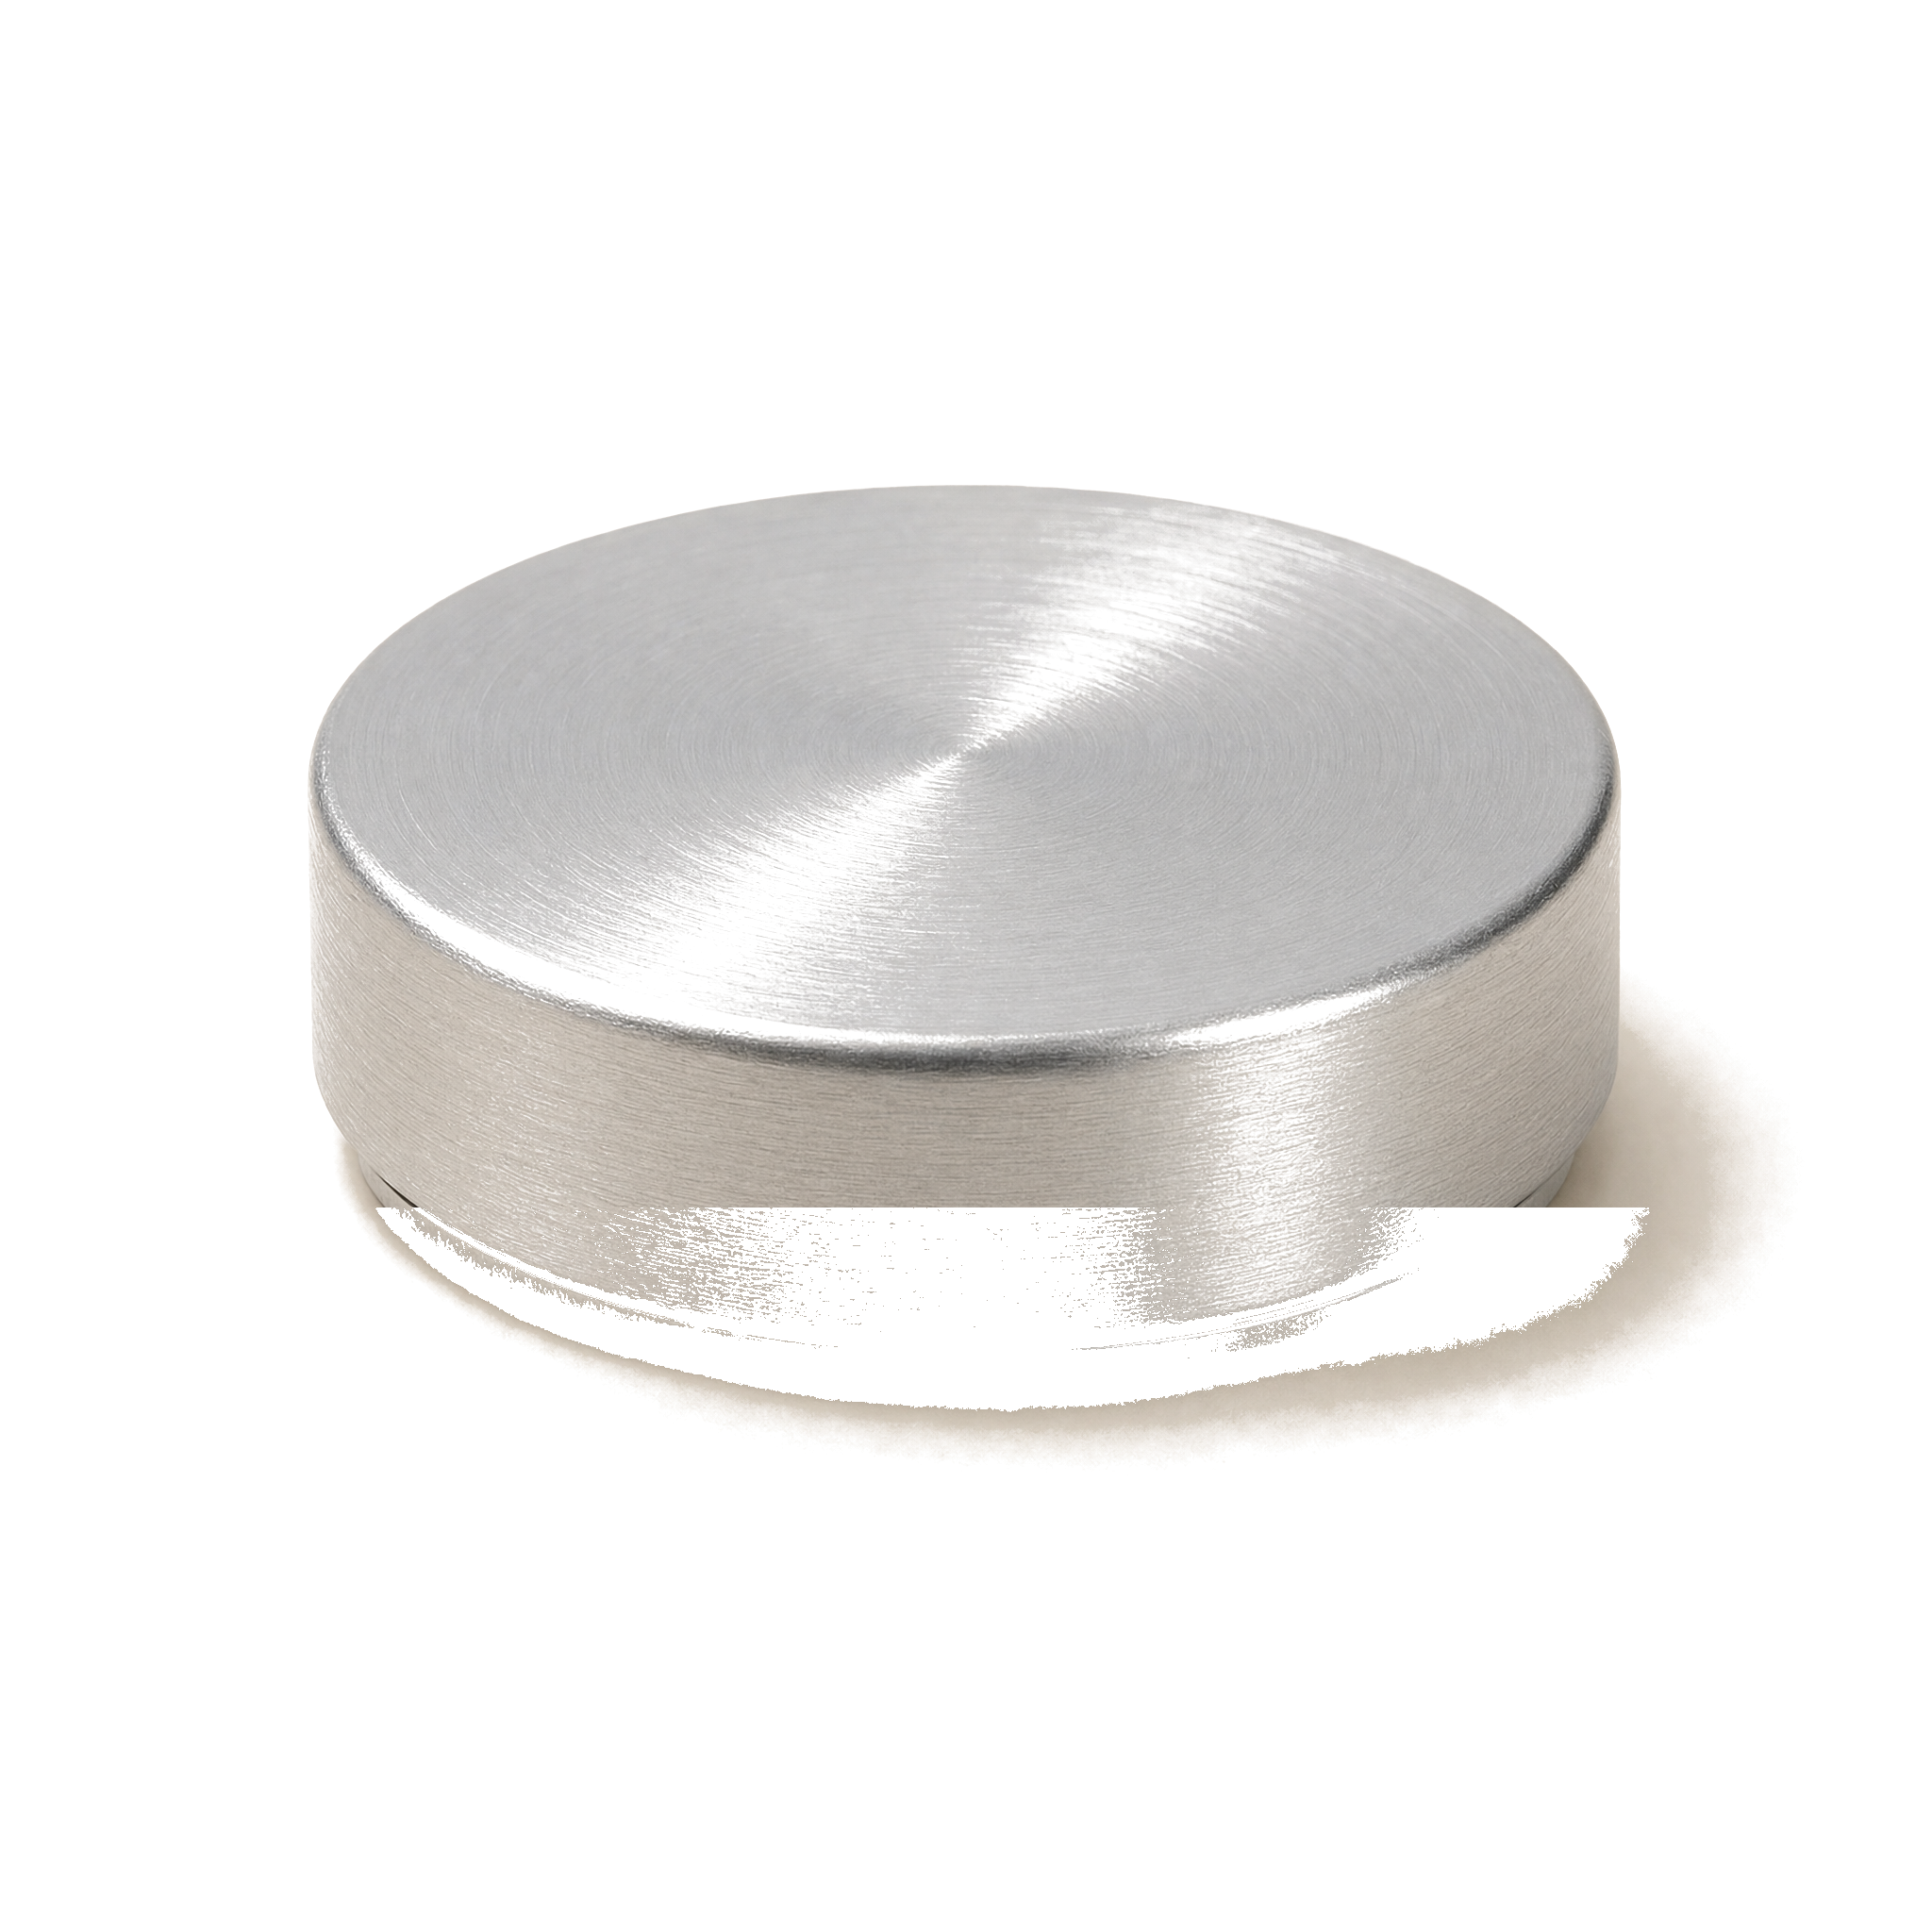
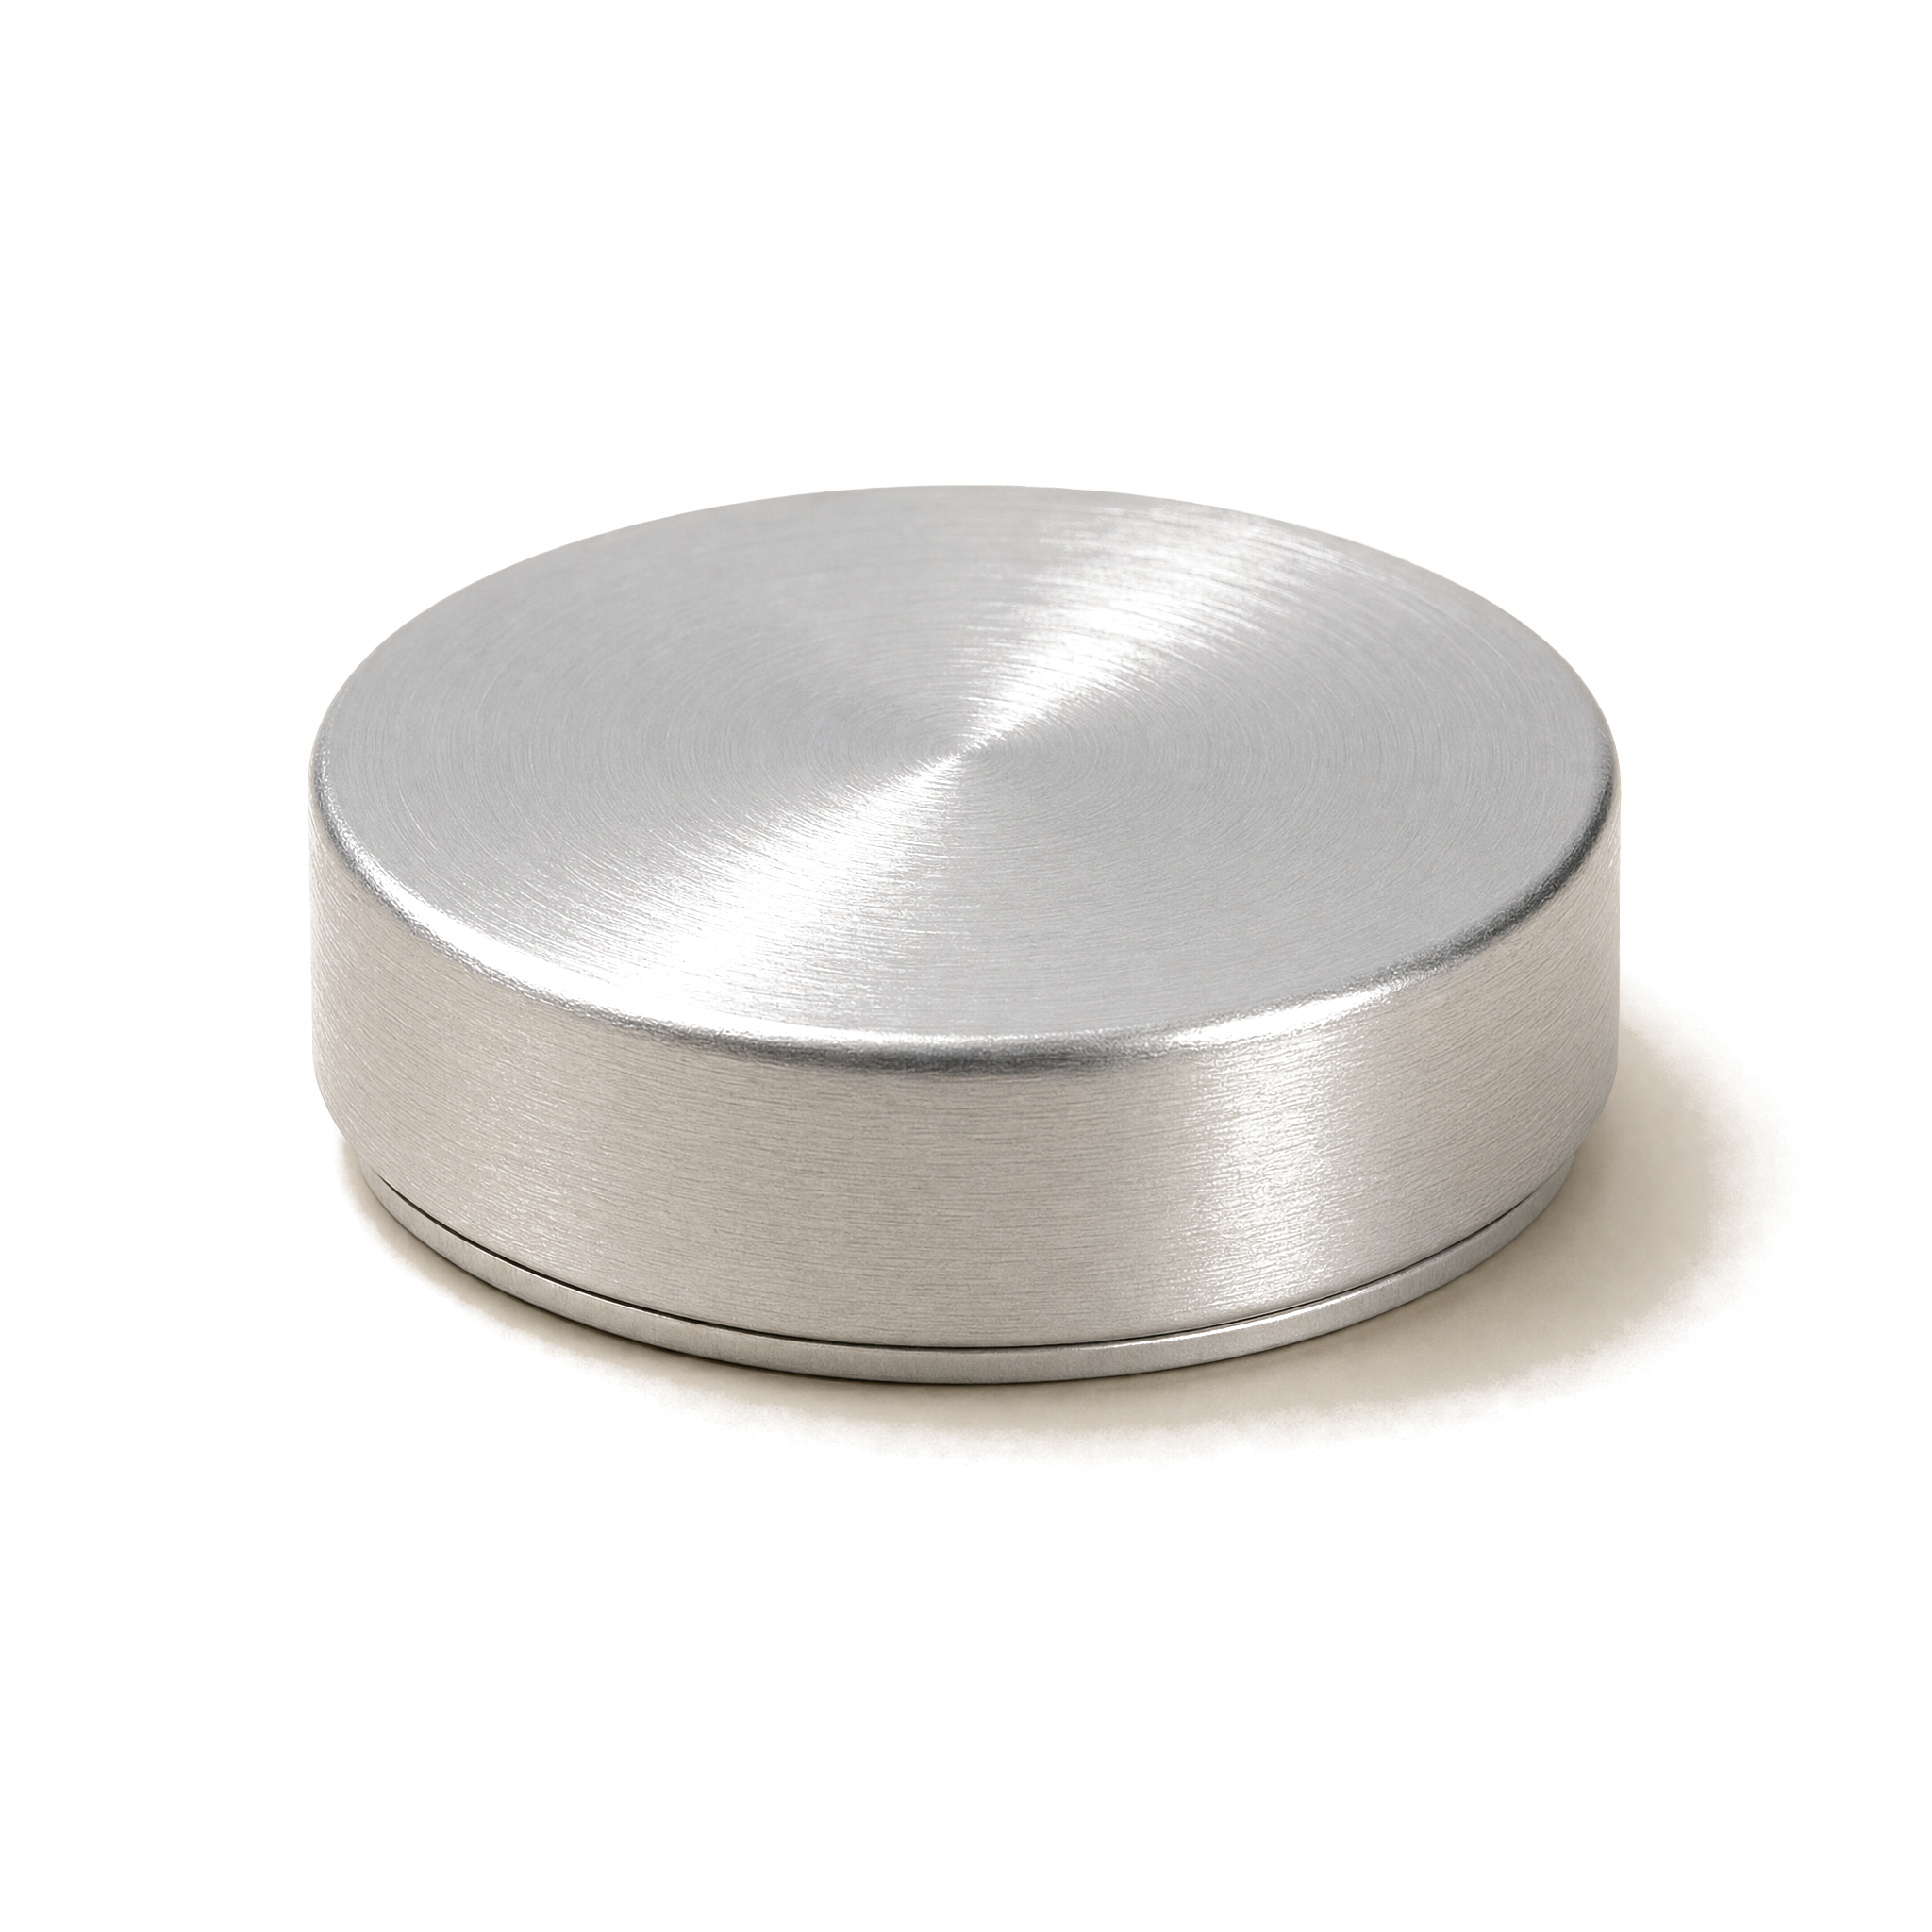
Revert shadow-cleanup on vial parts — broke the scroll animation
The PIL pixel-stripping pass on cap/ring/stopper PNGs (commit
6ff1020) was too aggressive and broke the visual of the process
section's assembly animation. Restoring all three parts from the
.shadow-backup.png originals.

If we want to tackle the baked-in drop shadows again, the right
move is to regenerate the parts with an explicit "no shadow,
floating in pure cream" prompt, not pixel-edit them.

Bumped cache-bust to ?v=20260628 so visitors see the restore
immediately on next load.

Changed region(s): [[0.1875, 0.625, 0.8438, 0.75]]

diff --git a/index.html b/index.html
@@ -81,7 +81,7 @@
       }
     };
   </script>
-  <link rel="stylesheet" href="assets/css/style.css?v=20260627" />
+  <link rel="stylesheet" href="assets/css/style.css?v=20260628" />
 </head>
 <body class="bg-cream text-ink font-sans antialiased">
 
@@ -773,9 +773,9 @@
   <!-- Vercel Web Analytics — privacy-friendly, no cookies, free on Hobby -->
   <script defer src="/_vercel/insights/script.js"></script>
 
-  <script src="assets/js/products.js?v=20260627"></script>
-  <script src="assets/js/search.js?v=20260627"></script>
-  <script src="assets/js/cart.js?v=20260627"></script>
-  <script src="assets/js/main.js?v=20260627"></script>
+  <script src="assets/js/products.js?v=20260628"></script>
+  <script src="assets/js/search.js?v=20260628"></script>
+  <script src="assets/js/cart.js?v=20260628"></script>
+  <script src="assets/js/main.js?v=20260628"></script>
 </body>
 </html>

diff --git a/product.html b/product.html
@@ -36,7 +36,7 @@
       }
     };
   </script>
-  <link rel="stylesheet" href="/assets/css/style.css?v=20260627" />
+  <link rel="stylesheet" href="/assets/css/style.css?v=20260628" />
 
   <!-- JSON-LD Product schema populated by product-page.js -->
   <script id="ld-product" type="application/ld+json"></script>
@@ -196,8 +196,8 @@
     </div>
   </footer>
 
-  <script src="/assets/js/products.js?v=20260627"></script>
-  <script src="/assets/js/cart.js?v=20260627"></script>
-  <script src="/assets/js/product-page.js?v=20260627"></script>
+  <script src="/assets/js/products.js?v=20260628"></script>
+  <script src="/assets/js/cart.js?v=20260628"></script>
+  <script src="/assets/js/product-page.js?v=20260628"></script>
 </body>
 </html>

diff --git a/cancel.html b/cancel.html
@@ -7,7 +7,7 @@
   <link rel="preconnect" href="https://fonts.googleapis.com" />
   <link rel="preconnect" href="https://fonts.gstatic.com" crossorigin />
   <link href="https://fonts.googleapis.com/css2?family=Poppins:wght@300;400;500;600;700&display=swap" rel="stylesheet" />
-  <link rel="stylesheet" href="assets/css/style.css?v=20260627" />
+  <link rel="stylesheet" href="assets/css/style.css?v=20260628" />
   <style>
     body { background: var(--offwhite); min-height: 100vh; display: grid; place-items: center; padding: 2rem; }
     .cancel-card {

diff --git a/privacy.html b/privacy.html
@@ -8,7 +8,7 @@
   <link rel="preconnect" href="https://fonts.googleapis.com" />
   <link rel="preconnect" href="https://fonts.gstatic.com" crossorigin />
   <link href="https://fonts.googleapis.com/css2?family=Poppins:wght@300;400;500;600;700&display=swap" rel="stylesheet" />
-  <link rel="stylesheet" href="assets/css/style.css?v=20260627" />
+  <link rel="stylesheet" href="assets/css/style.css?v=20260628" />
 </head>
 <body class="bg-offwhite text-ink">
   <main class="max-w-3xl mx-auto px-6 py-16 lg:py-24">

diff --git a/success.html b/success.html
@@ -7,7 +7,7 @@
   <link rel="preconnect" href="https://fonts.googleapis.com" />
   <link rel="preconnect" href="https://fonts.gstatic.com" crossorigin />
   <link href="https://fonts.googleapis.com/css2?family=Poppins:wght@300;400;500;600;700&display=swap" rel="stylesheet" />
-  <link rel="stylesheet" href="assets/css/style.css?v=20260627" />
+  <link rel="stylesheet" href="assets/css/style.css?v=20260628" />
   <style>
     body { background: var(--offwhite); min-height: 100vh; display: grid; place-items: center; padding: 2rem; }
     .success-card {

diff --git a/terms.html b/terms.html
@@ -8,7 +8,7 @@
   <link rel="preconnect" href="https://fonts.googleapis.com" />
   <link rel="preconnect" href="https://fonts.gstatic.com" crossorigin />
   <link href="https://fonts.googleapis.com/css2?family=Poppins:wght@300;400;500;600;700&display=swap" rel="stylesheet" />
-  <link rel="stylesheet" href="assets/css/style.css?v=20260627" />
+  <link rel="stylesheet" href="assets/css/style.css?v=20260628" />
 </head>
 <body class="bg-offwhite text-ink">
   <main class="max-w-3xl mx-auto px-6 py-16 lg:py-24">